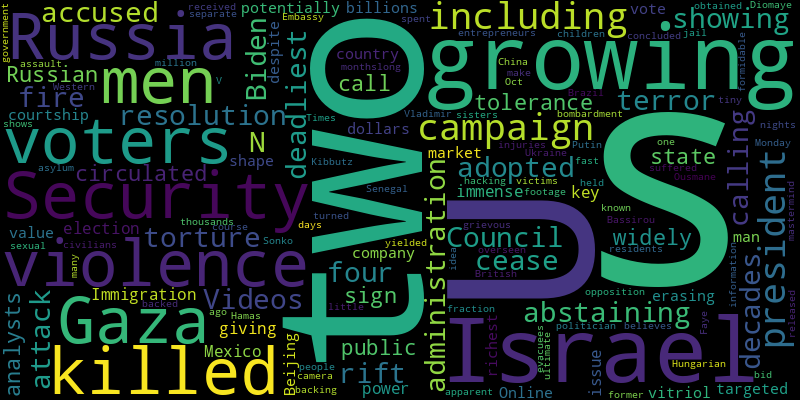
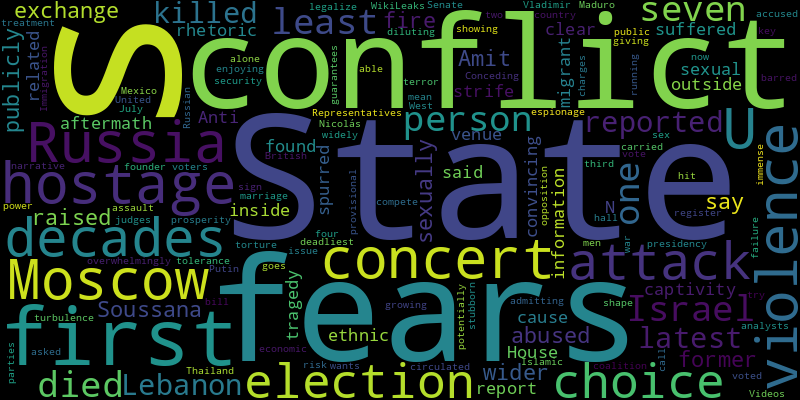
chore(bot): 👻 auto commit

diff --git a/README.md b/README.md
@@ -2,41 +2,41 @@
 Auto RSS New York Times and Generate Word Cloud
 
 ## New York Times Global News
-* A rift is growing between the Biden administration and Israel after the U.N. Security Council, with the U.S. abstaining, adopted a resolution calling for a cease-fire in Gaza.
+* At least one person died in Israel and seven were reported killed in Lebanon in the latest exchange of fire, which has raised fears of a wider conflict.
+* Amit Soussana is the first former hostage to publicly say she was sexually abused in captivity. A U.N. report has said it found “clear and convincing information” that some hostages suffered “conflict-related sexual violence.”
+* Anti-migrant rhetoric in the aftermath of the attacks at the concert venue outside Moscow has spurred fears that the tragedy could cause ethnic strife inside Russia.
+* The House of Representatives voted overwhelmingly to legalize same-sex marriage. The bill now goes to Thailand’s Senate.
+* After enjoying decades of prosperity, the country has hit stubborn economic turbulence.
 * Videos showing the torture of four men, accused of Russia’s deadliest terror attack in decades, have circulated widely in what analysts call a sign of the Russian state’s growing tolerance for public violence.
+* Conceding that the Islamic State alone carried out the assault on a Moscow concert hall would mean admitting to a security failure, and risk diluting Vladimir Putin’s narrative war with the West.
+* After its first two choices to compete for the presidency against Nicolás Maduro in July’s election were barred from running, the coalition of opposition parties was able to register a third, provisional choice.
 * Immigration is a key issue for voters in the U.S. election, giving Mexico immense power to potentially shape the vote.
-* Online vitriol has targeted the country’s richest man, erasing billions of dollars of his company’s market value, despite Beijing’s courtship of entrepreneurs.
-* Bassirou Diomaye Faye, who turned 44 on Monday, was little known until he received the backing of Ousmane Sonko, Senegal’s most formidable opposition politician. Both men were released from jail only 10 days ago.
-* Kibbutz residents concluded that two sisters killed on Oct. 7 were not victims of sexual violence.
-* The evacuees make up only a tiny fraction of the thousands of civilians, including many children, who have suffered grievous injuries over the course of Israel’s monthslong campaign against Hamas and its bombardment of Gaza.
-* Security-camera footage obtained by The Times shows that Brazil’s former president spent two nights at the Hungarian Embassy in an apparent bid for asylum.
-* The British government believes China has overseen two separate hacking campaigns, including one that yielded information from 40 million voters.
-* But President Vladimir V. Putin of Russia held fast to the idea that a Western-backed Ukraine could have been the ultimate mastermind of the assault that killed 139 people.
+* British judges asked the United States, which wants to try the WikiLeaks founder on espionage charges, for more guarantees about his treatment.
 
 ![Global](./global.png)
 ## New York Times United States News
-* Erin Hawley is best known as the wife of Senator Josh Hawley, but now the spotlight is on her in a Supreme Court case.
-* Larry Householder, already serving a 20-year federal prison sentence, was indicted on additional state felony charges on Monday in connection with a sprawling bribery scheme.
-* More than a year into her term, Mayor Karen Bass has cleared encampments and moved thousands of people into motels. What happens next is unclear.
-* A bill that would add people who don’t hunt to the Vermont Fish and Wildlife Board has stirred an outcry in a state known for both progressive politics and rural traditions.
-* Francis Scott Key was believed to be near the site when he observed a British bombardment during the War of 1812.
-* The ship had spent two days in Baltimore’s port before setting off.
-* Mr. Kennedy, the independent presidential candidate, is expected to announce Ms. Shanahan, a wealthy Silicon Valley lawyer, as his vice-presidential pick on Tuesday in Oakland, Calif.
-* The White House plans to use the 14th anniversary of the Affordable Care Act to draw a contrast with Republicans who have sought to do away with all or parts of the law.
-* The justices’ decision could cut off prescriptions by telemedicine and pills sent by mail, and also have implications for the regulatory authority of the F.D.A.
-* The parties in the fight over access to the abortion pill sharply disagree on whether anti-abortion doctors and groups can show they will suffer harm.
+* Federal investigators search for answers about how a massive cargo ship struck a major bridge minutes after leaving the Port of Baltimore early Tuesday.
+* A year after losing her daughter in the Covenant School shooting, Katy Dieckhaus is speaking about Evelyn, and the changes she wants to see.
+* Nearly a decade after his indictment for securities fraud, Mr. Paxton will pay restitution, take legal ethics classes and do community service as part of an agreement with prosecutors.
+* After decades of financial mismanagement, the nearly 170-year-old private liberal arts school is set to close at the end of May.
+* Questions swirl over the bridge’s collapse after a massive cargo ship slammed into the Francis Scott Key Bridge moments after losing power early on Tuesday.
+* The former superintendent and medical director of the Holyoke Soldiers’ Home in Massachusetts were indicted in 2020 on charges of neglect after many residents became sick and died.
+* The vessels had underpaid crews and kept workers onboard for months beyond their contracts, according to an Australian regulator.
+* An increasing number of states have advanced A.I.-related legislation to combat attempts to mislead voters during the 2024 election, according to a new analysis by the Voting Rights Lab.
+* The bridge, which collapsed on Tuesday, had become an emblem of Baltimore’s identity as a working port city.
+* The six men worked for a company that often maintains bridges operated by the state. They were repairing the bridge’s roadway when it was struck by the ship.
 
 ![US](./usnews.png)
 ## New York Times Asia News
+* The House of Representatives voted overwhelmingly to legalize same-sex marriage. The bill now goes to Thailand’s Senate.
+* Mr. Musk helped create China’s electric vehicle industry. But he is now facing challenges there as well as scrutiny in the West over his reliance on the country.
+* Tesla and China built a symbiotic relationship, with credits, workers and parts that made Mr. Musk ultrarich. Now, his reliance on the country may give Beijing leverage.
+* Wang Xiaoshuai is among the few Chinese artists who refuse to bend to state limitations on the subjects they explore.
+* After enjoying decades of prosperity, the country has hit stubborn economic turbulence.
+* Plus, Beyoncé’s country album.
+* The crash in Baltimore was at least the second in just over a month in which a container ship hit a major road bridge.
+* The assault comes amid a spate of terror attacks in Pakistan, as the country’s faltering ties to the Taliban affect regional security.
 * The ship had spent two days in Baltimore’s port before setting off.
 * The city’s dry gardens seem timeless, but as these relatively new versions show, their design is still evolving. They offer spots for quiet contemplation in an increasingly overtouristed city.
-* Online vitriol has targeted the country’s richest man, erasing billions of dollars of his company’s market value, despite Beijing’s courtship of entrepreneurs.
-* Also, searching for Iceland’s northern lights.
-* The actions on both sides of the Atlantic, which included sanctions, underscored the escalation of cyberconflict between Western allies and Beijing.
-* The British government believes China has overseen two separate hacking campaigns, including one that yielded information from 40 million voters.
-* Apple has deep ties in the country, its second-largest market. But there are signs that Chinese consumers are becoming a harder sell.
-* Plus, the hotel guest who wouldn’t leave.
-* The social media movement is the latest sign that some of China’s young people are resisting the compulsion to strive.
-* As China’s leaders promote their strategy, other countries worry about manufacturing overcapacity and plans for more exports.
 
 ![Asian](./asian.png)
